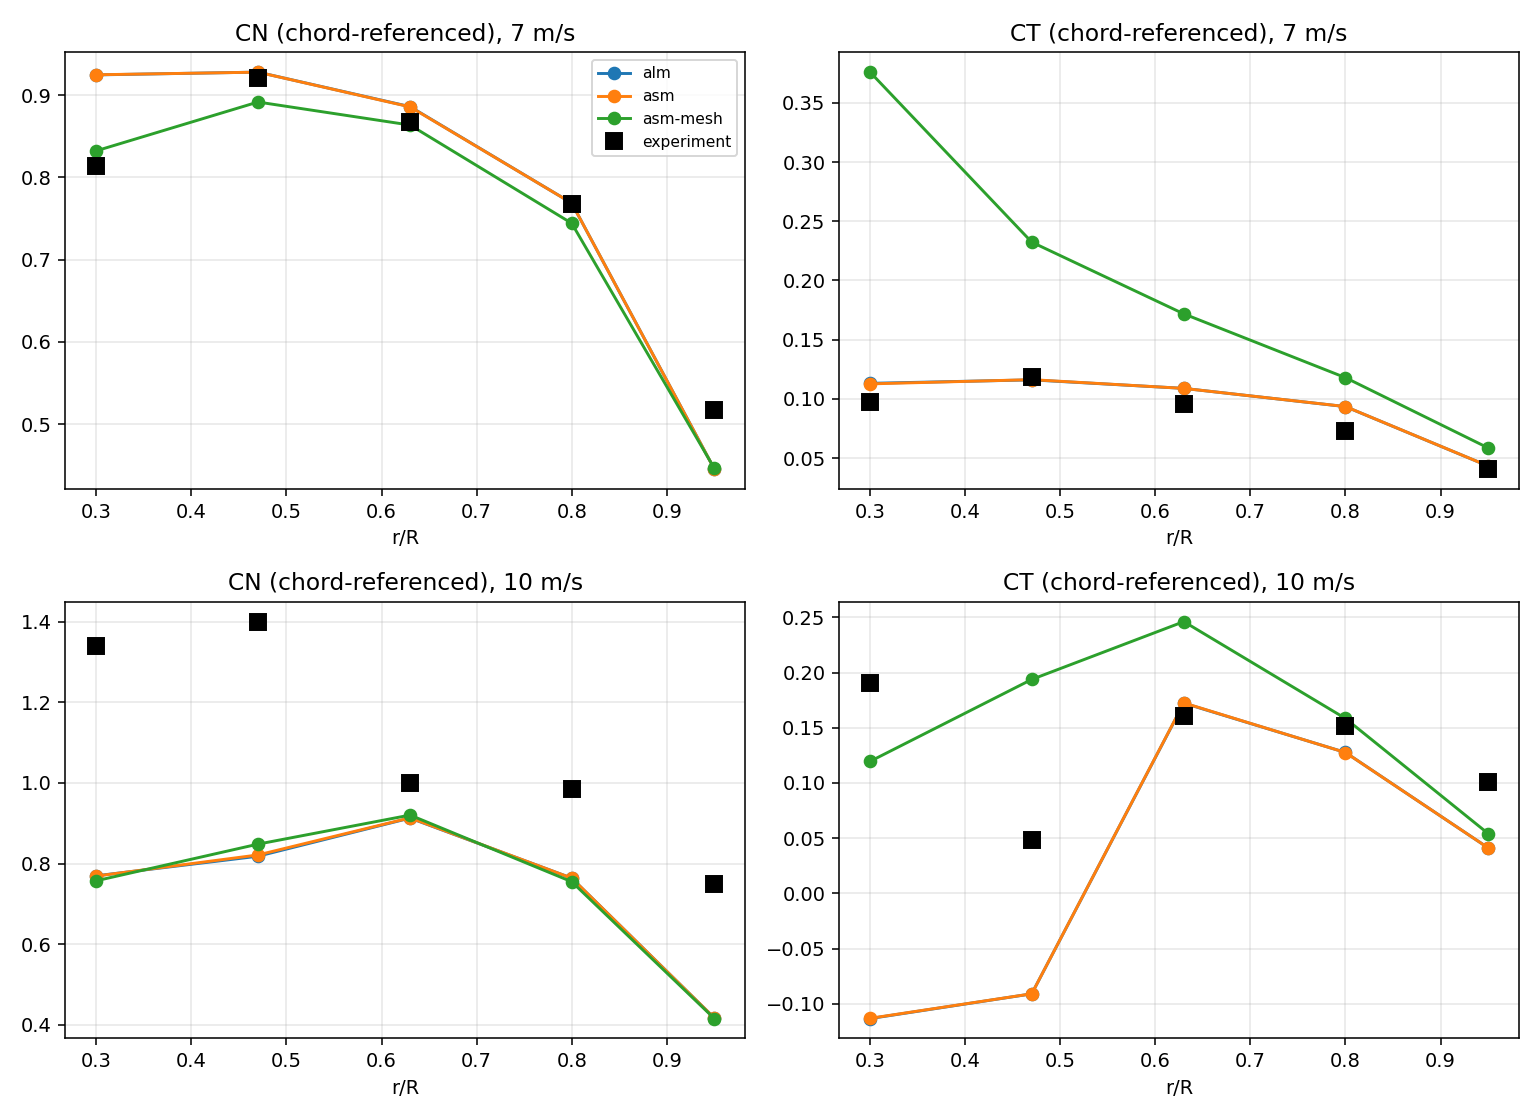
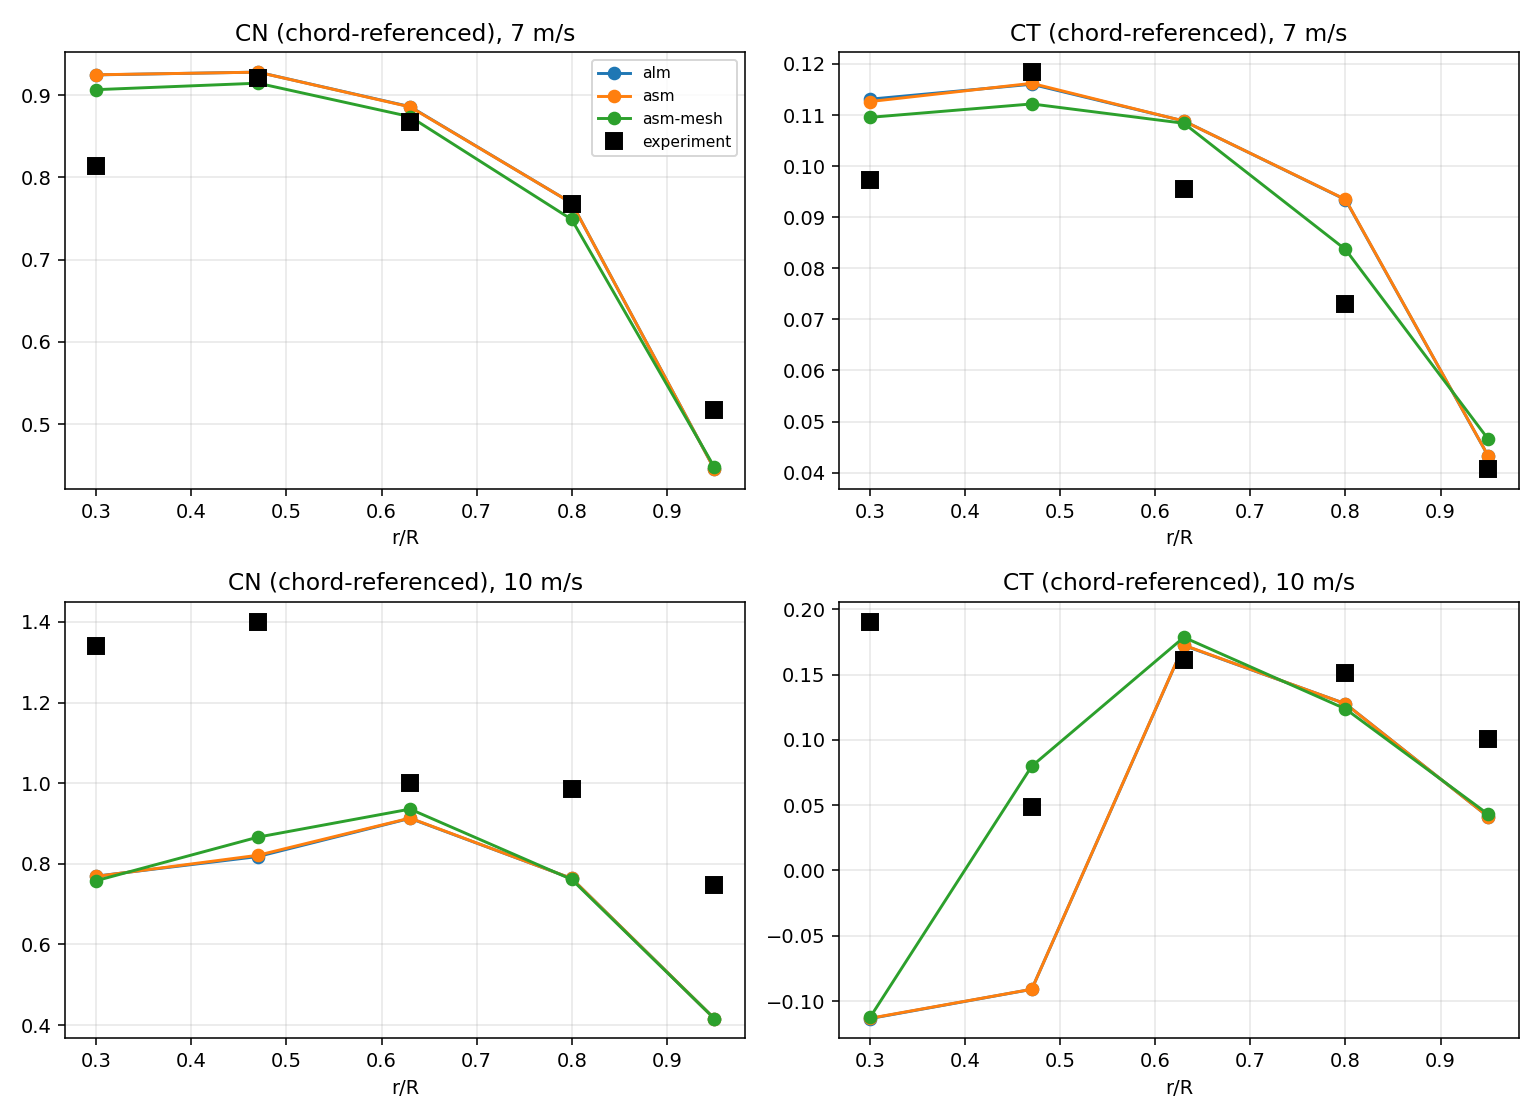
fix(phasevi): rebuild the ASM+mesh chord pair from element CSVs; add compareElementStates

diff --git a/turbinesFoam/validation/phaseVI/scripts/compareElementStates.py b/turbinesFoam/validation/phaseVI/scripts/compareElementStates.py
@@ -1,0 +1,102 @@
+#!/usr/bin/env python3
+"""Compare the per-element aerodynamic state of several runs side by side.
+
+A pure reader of `postProcessing/actuatorLineElements/0/<owner>.blade1.element*.csv`:
+for every element it averages the columns below over the same revolution window
+in each run and prints one block per column (elements as rows, runs as columns,
+then the ratio to the first run). It defines no calibrated quantity; use it to
+locate WHERE two runs first differ (relative speed, angle of attack, lift, drag,
+chord-frame coefficients) before asking why.
+
+Usage:
+    python3 scripts/compareElementStates.py --speed 7 --rpm 72 \
+        runs/asm-U7-coarse-p21 runs/asm-mesh-U7-coarse-p21 \
+        --columns rel_vel_mag alpha_deg cl cd c_ref_t c_ref_n
+"""
+from __future__ import annotations
+
+import argparse
+import csv
+import re
+import sys
+from pathlib import Path
+
+ELEMENT_DIR = Path("postProcessing") / "actuatorLineElements" / "0"
+DEFAULT_COLUMNS = ("rel_vel_mag", "alpha_deg", "alpha_geom_deg", "cl", "cd",
+                   "end_effect_factor", "c_ref_t", "c_ref_n")
+BLADE = "blade1"
+
+
+def element_files(run_dir: Path) -> list[tuple[int, Path]]:
+    pattern = re.compile(rf"\.{BLADE}\.element(\d+)\.csv$")
+    found = []
+    for path in (run_dir / ELEMENT_DIR).glob(f"*.{BLADE}.element*.csv"):
+        match = pattern.search(path.name)
+        if match:
+            found.append((int(match.group(1)), path))
+    return sorted(found)
+
+
+def average_elements(run_dir: Path, start: float, columns: tuple[str, ...]) -> dict[int, dict]:
+    """Mean of `columns` per element over rows with time >= start (plus root_dist)."""
+    result = {}
+    for index, path in element_files(run_dir):
+        with path.open(newline="", encoding="utf-8") as stream:
+            rows = [r for r in csv.DictReader(stream) if float(r["time"]) >= start]
+        if not rows:
+            continue
+        entry = {"root_dist": float(rows[0]["root_dist"])}
+        for column in ("root_dist", *columns):
+            entry[column] = sum(float(r[column]) for r in rows) / len(rows)
+        result[index] = entry
+    return result
+
+
+def window_start(speed: float, tsr: float, radius: float, discard_revolutions: float) -> float:
+    import math
+    return discard_revolutions * 2.0 * math.pi * radius / (tsr * speed)
+
+
+def render(runs: list[Path], states: list[dict], columns: tuple[str, ...]) -> str:
+    lines = []
+    indices = sorted(set.intersection(*(set(s) for s in states)))
+    labels = [run.name for run in runs]
+    for column in columns:
+        lines.append(f"\n## {column}")
+        lines.append("elem  root_dist  " + "  ".join(f"{label[-22:]:>22}" for label in labels)
+                     + "".join(f"  ratio{n}" for n in range(1, len(runs))))
+        for index in indices:
+            values = [state[index][column] for state in states]
+            ratios = ["      n/a" if values[0] == 0.0 else f"{v / values[0]:9.3f}"
+                      for v in values[1:]]
+            lines.append(f"{index:4d}  {states[0][index]['root_dist']:9.4f}  "
+                         + "  ".join(f"{v:22.5g}" for v in values) + "".join(ratios))
+    return "\n".join(lines)
+
+
+def build_parser() -> argparse.ArgumentParser:
+    parser = argparse.ArgumentParser(description=__doc__.split("\n\n")[0])
+    parser.add_argument("run_dirs", nargs="+", type=Path)
+    parser.add_argument("--speed", type=float, required=True, help="inflow speed [m/s]")
+    parser.add_argument("--tsr", type=float, default=5.408)
+    parser.add_argument("--radius", type=float, default=5.029)
+    parser.add_argument("--discard-revolutions", type=float, default=4.0)
+    parser.add_argument("--columns", nargs="+", default=list(DEFAULT_COLUMNS))
+    return parser
+
+
+def main(argv: list[str] | None = None) -> int:
+    args = build_parser().parse_args(argv)
+    start = window_start(args.speed, args.tsr, args.radius, args.discard_revolutions)
+    columns = tuple(args.columns)
+    states = [average_elements(run, start, columns) for run in args.run_dirs]
+    if not all(states):
+        print("no element rows found in at least one run", file=sys.stderr)
+        return 1
+    print(f"window: time >= {start:.4f} s ({args.discard_revolutions:g} revolutions discarded)")
+    print(render(args.run_dirs, states, columns))
+    return 0
+
+
+if __name__ == "__main__":
+    sys.exit(main())

diff --git a/turbinesFoam/validation/phaseVI/scripts/comparePhaseVI.py b/turbinesFoam/validation/phaseVI/scripts/comparePhaseVI.py
@@ -569,24 +569,39 @@ def analyse_model(run_dir: Path, cfg, speed, sequence, rho, allow_short,
     radius = float(cfg["turbine"]["radius"])
     if surface:
         # The station rows carry the element c_ref_n/c_ref_t definitions, which
-        # are the PLANE-OF-ROTATION pair, so the only conversion is the element
-        # root_dist -> r/R mapping. A surface station table has no chord-line
-        # decomposition: the same plane pair is duplicated into the chord slots
-        # (slots 1 and 2), making the chord comparison a declared open defect
-        # for this model while the plane comparison (slots 3 and 4) is exact.
-        profile = [
-            (
-                r_over_r_from_root_dist(root_dist, radius),
-                c_ref_n, c_ref_t, c_ref_n, c_ref_t,
-            )
+        # are the PLANE-OF-ROTATION pair (slots 3 and 4). A surface station
+        # table has no chord-line decomposition, and the station force is the
+        # element force by construction (partition of unity), so the CHORD pair
+        # (slots 1 and 2) is rebuilt from the element CSVs, which a surface run
+        # still writes, exactly as for the other models. Only a run without
+        # element CSVs falls back to duplicating the plane pair into the chord
+        # slots, a declared limitation for that case.
+        stations = [
+            (r_over_r_from_root_dist(root_dist, radius), c_ref_n, c_ref_t)
             for root_dist, c_ref_n, c_ref_t in read_surface_stations(
                 run_dir, start, end, allow_short
             )
         ]
-        profile.sort()
-        # The element CSVs still exist (suppression stops only the strip
-        # projection) and back element_profiles/--match-eaeroth-span.
+        stations.sort()
         elements = read_elements(element_dir) if element_dir.is_dir() else []
+        chord = (
+            spanwise_profile(elements, start, end, allow_short, radius)
+            if elements else []
+        )
+        if chord:
+            # The plane pair is interpolated onto the element r/R grid; in a
+            # real run both tables have one row per element at the same r/R,
+            # so the interpolation is the identity there.
+            profile = [
+                (r_chord, cn, ct, *interpolate(stations, r_chord))
+                for r_chord, cn, ct, _, _ in chord
+            ]
+        else:
+            profile = [
+                (r_over_r, plane_n, plane_t, plane_n, plane_t)
+                for r_over_r, plane_n, plane_t in stations
+            ]
+        profile.sort()
     else:
         elements = read_elements(element_dir)
         profile = spanwise_profile(elements, start, end, allow_short, radius)
@@ -594,7 +609,7 @@ def analyse_model(run_dir: Path, cfg, speed, sequence, rho, allow_short,
     metrics["run_dir"] = str(run_dir)
     metrics["element_profiles"] = len(elements)
     if surface:
-        metrics["surface_stations"] = len(profile)
+        metrics["surface_stations"] = len(stations)
         metrics.update(read_surface_audit(run_dir))
     if match_span:
         if not elements:

diff --git a/turbinesFoam/tests/test_phasevi_compare.py b/turbinesFoam/tests/test_phasevi_compare.py
@@ -126,6 +126,11 @@ def write_run(root: Path, sign: float = 1.0, tsr: float = TSR,
     return root
 
 
+#: Chord-frame pair of the synthetic elements: alpha 6 deg, cl 0.9, cd 0.01.
+FIXTURE_CHORD_CN = 0.9 * math.cos(math.radians(6.0)) + 0.01 * math.sin(math.radians(6.0))
+FIXTURE_CHORD_CT = 0.9 * math.sin(math.radians(6.0)) - 0.01 * math.cos(math.radians(6.0))
+
+
 def linear_at(points, x):
     """Independent linear interpolation oracle for the surface conversion."""
     points = sorted(points)
@@ -407,8 +412,12 @@ def test_main_three_way_surface_merge(tmp_path):
     ]
     for station in compare.STATIONS:
         values = metrics["models"]["asm-mesh"]["spanwise"][f"{station:.2f}"]
-        assert values[0] == pytest.approx(linear_at(mapped_n, station), rel=1e-12)
-        assert values[1] == pytest.approx(linear_at(mapped_t, station), rel=1e-12)
+        # chord slots come from the element coefficients (alpha 6 deg, cl 0.9,
+        # cd 0.01 in the fixture); plane slots come from the station table
+        assert values[0] == pytest.approx(FIXTURE_CHORD_CN, rel=1e-12)
+        assert values[1] == pytest.approx(FIXTURE_CHORD_CT, rel=1e-12)
+        assert values[2] == pytest.approx(linear_at(mapped_n, station), rel=1e-12)
+        assert values[3] == pytest.approx(linear_at(mapped_t, station), rel=1e-12)
 
     gate = json.loads((out / "sign_gate.json").read_text(encoding="utf-8"))
     assert gate["pass"] is True
@@ -472,3 +481,27 @@ def test_surface_stations_use_metric_station_and_skip_distribution_csv(tmp_path)
     profile = compare.read_surface_stations(tmp_path, 0.0, 1.0, True)
     assert [round(root_dist, 6) for root_dist, _, _ in profile] == [0.02, 0.06, 0.10]
     assert [round(c_ref_n, 6) for _, c_ref_n, _ in profile] == [0.9, 0.8, 0.7]
+
+
+def test_asm_mesh_chord_pair_comes_from_elements_not_plane_stations(tmp_path):
+    """The surface station table only carries the plane-of-rotation pair.
+
+    Copying it into the chord slots plotted CTq as CT. The chord pair must be
+    rebuilt from the element coefficients (the fixture's alpha, cl, cd),
+    like every other model, while the plane slots keep the station values.
+    """
+    asm_mesh = write_run(tmp_path / "asm-mesh", surface_stations=5)
+    out = tmp_path / "out"
+    rc = compare.main([
+        "--asm-mesh-dir", str(asm_mesh), "--out", str(out),
+        "--allow-short-window", "--revolutions", "0", "1",
+    ])
+    assert rc == compare.EXIT_OK
+    metrics = json.loads((out / "metrics.json").read_text(encoding="utf-8"))
+    radius = float(compare.load_config(compare.DEFAULT_CONFIG)["turbine"]["radius"])
+    root = compare.ROOT_CUTOUT_RADIUS / radius
+    plane_t = [(root + rd * (1.0 - root), 0.08 - 0.06 * rd) for rd in (0.0, 0.25, 0.5, 0.75, 1.0)]
+    for station in compare.STATIONS:
+        values = metrics["models"]["asm-mesh"]["spanwise"][f"{station:.2f}"]
+        assert values[1] == pytest.approx(FIXTURE_CHORD_CT, rel=1e-9)
+        assert values[3] == pytest.approx(linear_at(plane_t, station), rel=1e-9)

diff --git a/turbinesFoam/tests/test_compare_element_states.py b/turbinesFoam/tests/test_compare_element_states.py
@@ -1,0 +1,50 @@
+# SPDX-License-Identifier: GPL-3.0-or-later
+"""Contract for `compareElementStates.py` on synthetic element CSVs."""
+
+from __future__ import annotations
+
+import csv
+import sys
+from pathlib import Path
+
+import pytest
+
+TESTS_DIR = Path(__file__).resolve().parent
+sys.path.insert(0, str(TESTS_DIR.parent / "validation" / "phaseVI" / "scripts"))
+
+import compareElementStates as states  # noqa: E402
+
+
+def write_run(root: Path, cl: float) -> Path:
+    directory = root / states.ELEMENT_DIR
+    directory.mkdir(parents=True)
+    for index in (0, 1):
+        with (directory / f"turbine.blade1.element{index}.csv").open("w", newline="") as stream:
+            writer = csv.writer(stream)
+            writer.writerow(["time", "root_dist", "cl"])
+            for time, value in ((0.5, 99.0), (2.0, cl), (3.0, cl + 0.2)):
+                writer.writerow([time, 0.1 * index, value])
+    return root
+
+
+def test_average_uses_only_rows_after_the_window_start(tmp_path):
+    run = write_run(tmp_path / "a", cl=0.6)
+    result = states.average_elements(run, 1.0, ("cl",))
+    assert sorted(result) == [0, 1]
+    assert result[1]["cl"] == pytest.approx(0.7)
+    assert result[1]["root_dist"] == pytest.approx(0.1)
+
+
+def test_main_reports_the_ratio_to_the_first_run(tmp_path, capsys):
+    first = write_run(tmp_path / "a", cl=0.6)
+    second = write_run(tmp_path / "b", cl=0.9)
+    rc = states.main([str(first), str(second), "--speed", "7",
+                      "--discard-revolutions", "1.0", "--columns", "cl"])
+    assert rc == 0
+    assert "1.429" in capsys.readouterr().out  # (0.9 + 0.1) / (0.6 + 0.1)
+
+
+def test_main_fails_when_a_run_has_no_element_rows(tmp_path):
+    empty = tmp_path / "empty"
+    empty.mkdir()
+    assert states.main(["--speed", "7", str(empty)]) == 1

diff --git a/odd/tasks/validation-master-plan.md b/odd/tasks/validation-master-plan.md
@@ -198,3 +198,4 @@ Resume pack: `odd/tasks/iea15mw-platform-freeze.md`, `odd/tasks/iea15mw-asm-l2-v
 | 2026-10-12 | Owner observation: the Phase VI ASM+mesh surface has unevenly spread sections. Measured: 25 segments from the NREL table, dz 0.013..0.305 m (23.5:1), triangle aspect up to 212. Triangle quality does not hurt (nodes are point sources); the spanwise node spacing against the cell size does: 1D deposit ripple of the committed loft is 1.6 % at h = 0.31 m (coarse, P1.4/P2 unaffected), 7.5 % at 0.155, 55 % at 0.078, 126 % at 0.039, against 1.0 / 2.3 / 4.7 / 8.9 % for an equispaced layout with a fixed dz = 0.05 m (the rule dz versus h is still to be measured, not assumed). A refinement ladder of ASM+mesh on the committed loft is not interpretable. Equispaced surface needs equispaced elements (patch fatal if an element owns no node). Proposal registered as P1.5, not started. |
 | 2026-10-12 | Owner asked for everything that lets the solver be presented as robust with published reliability ranges. Evidence register written (`odd/tasks/validation-evidence-register.md`): axes A1-A8, data to download (K, R, N, I must; Q, M, X nice), uncertainty budget, honesty rules; adds P2.5-P2.9. Corrections to my own earlier statement: sequences L and O ARE on disk (the converter leaves their `sequence` field empty); tunnel blockage is below 2 % in velocity per NREL and the case is a free box, which is up to ~6 % in power, the same order as the 10 % band. |
 | 2026-10-14 | P1.4 closed with figures (`scripts/plotComparisonFigures.py eps`). P2.1 runs 11614175-80 all COMPLETED, 12 revs, no drift. Read via `comparePhaseVI.py` after fixing 08c65e2 (surface reader choked on `*_distribution.csv` and truncated the metric `station` with `int()`). 7 m/s: P -11.0 % ALM, -10.9 % ASM, -14.5 % ASM+mesh (all inside +-15 %), T within 3 %. 10 m/s: P -42 / -42 / -39 %, T -27 %: root stations (r/R 0.30, 0.47) CN 0.8 vs 1.34-1.40 measured and ALM/ASM CT negative at the root (stalled-root polar, P3.1). Open: ASM+mesh chord-referenced CT at 7 m/s is 0.38 at r/R 0.30 against 0.11 for ASM (experiment 0.097) while P is fine; suspect the surface chord/plane decomposition, not read yet. Outputs in `analysis/p21`, `analysis/p14`. |
+| 2026-10-14 | **ASM+mesh chord CT discrepancy RESOLVED: comparator artefact, not physics.** The surface station table carries only the plane-of-rotation pair (the element's own `c_ref_*`; the station force equals the element force by construction), and `comparePhaseVI.py` copied it into the chord slots, so the chord figure showed CTq as CT (0.376 vs 0.113 at r/R 0.30). `scripts/compareElementStates.py` showed the per-element state of ASM and ASM+mesh agrees within a few % (rel speed 0.96-1.00, cl 0.97-1.01). Fix: chord pair rebuilt from the element CSVs for surface runs (test first). Corrected 7 m/s ASM+mesh CT at r/R 0.30: 0.110 (ASM 0.113, exp 0.097). Turbine-level P/Q/T were never affected. The remaining ASM+mesh deficit (P -14.5 % vs -10.9 %) is real and small: outboard CN/CTq 3-8 % lower (r/R 0.80: CN 0.749 vs 0.769, CTq 0.118 vs 0.129), cd up to 40 % lower at mid-span. At 10 m/s ASM+mesh differs from ASM only at r/R 0.47 (CTq 0.194 vs 0.018). |
